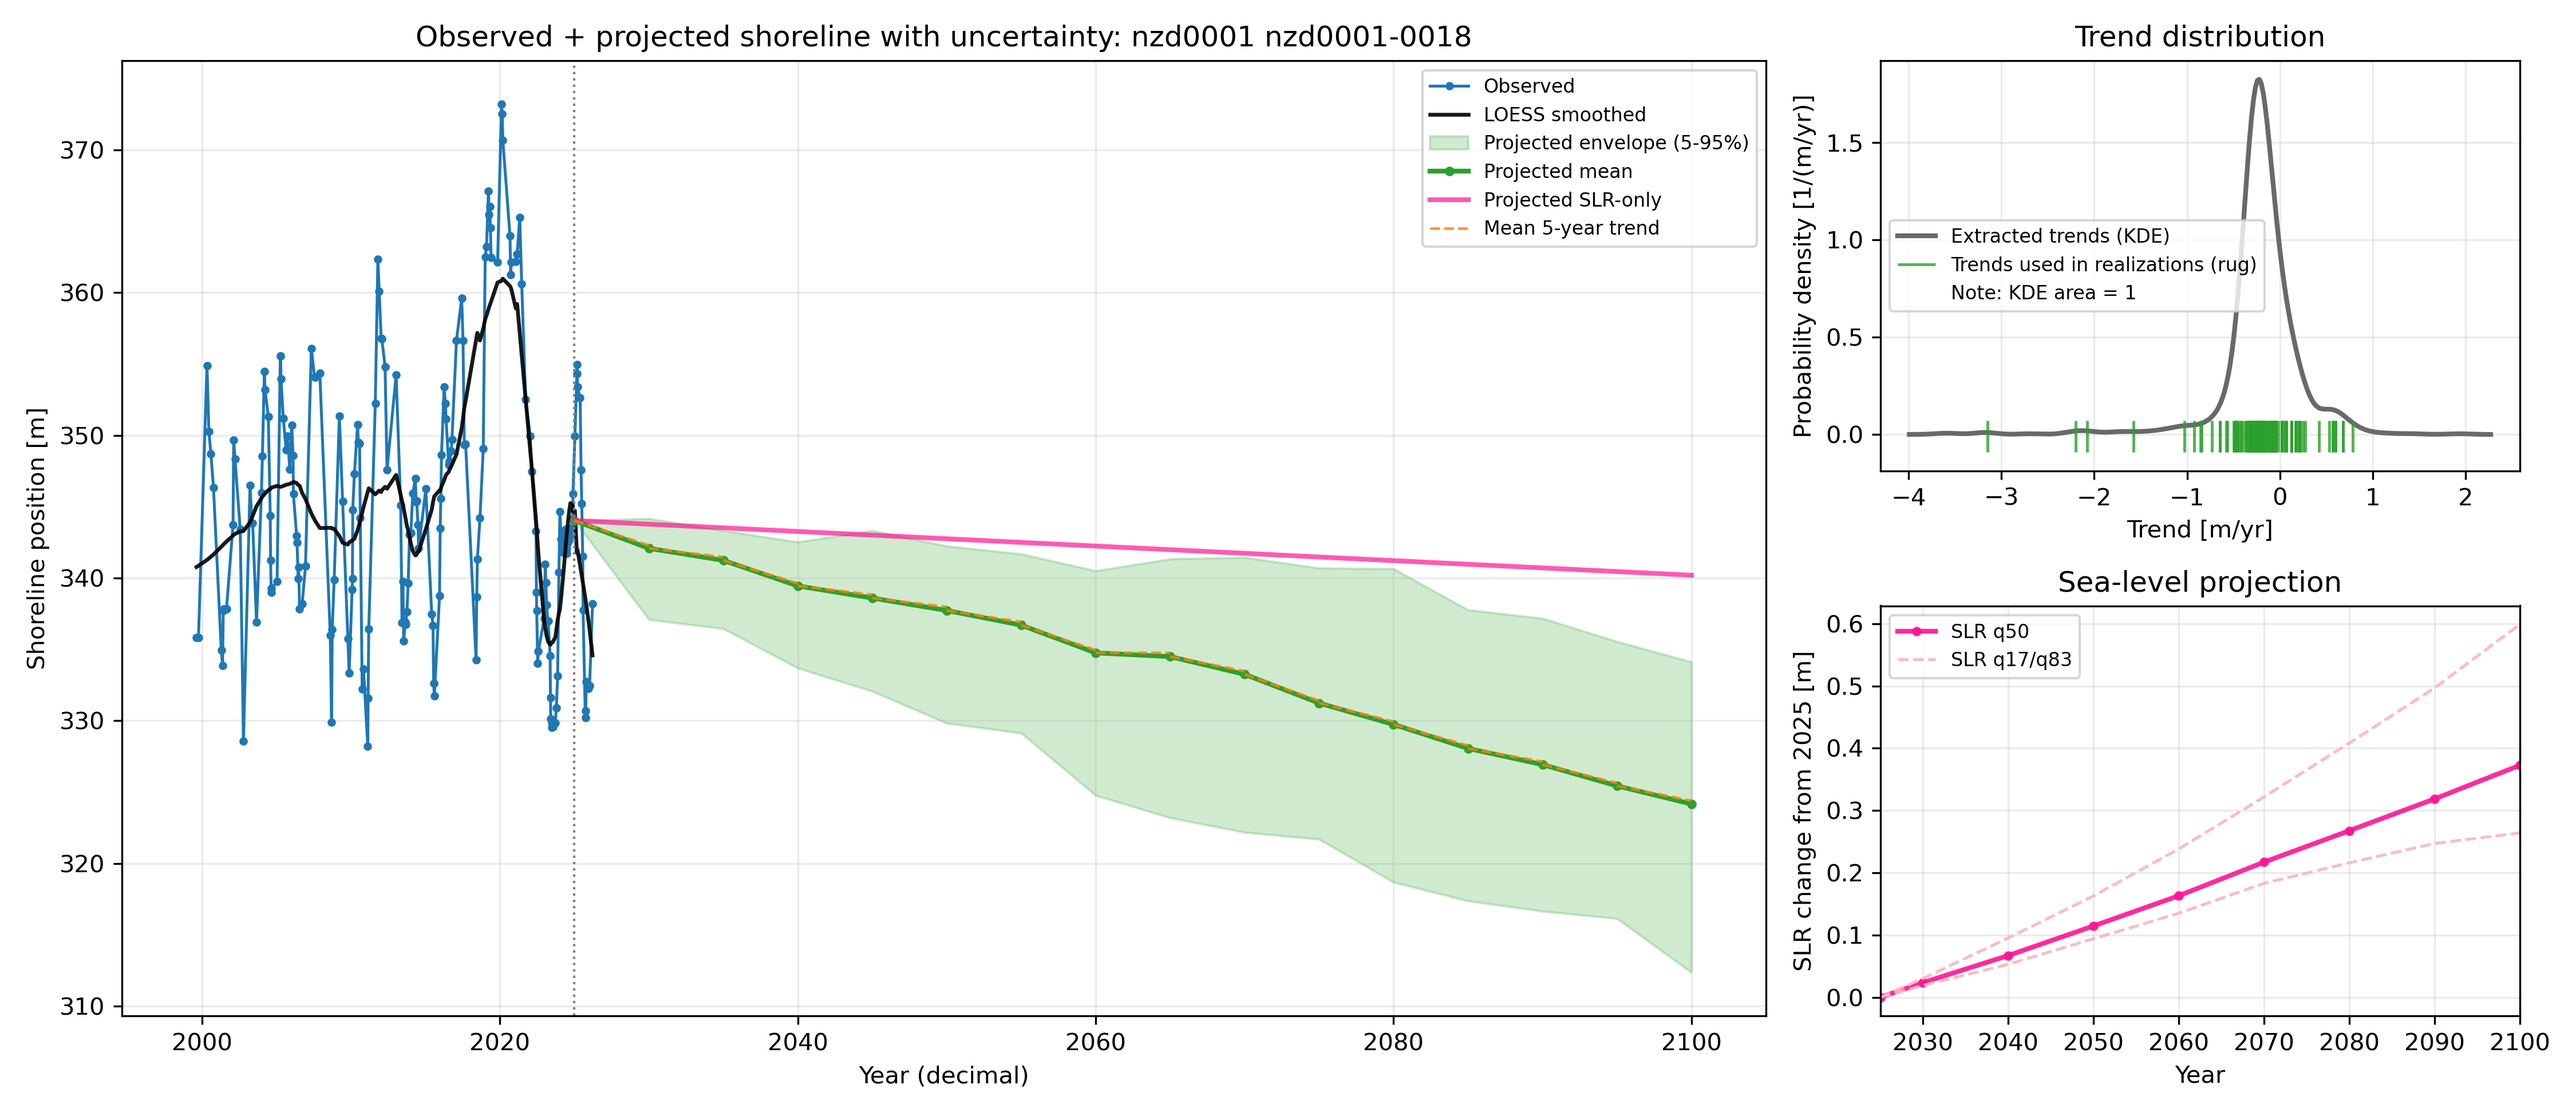
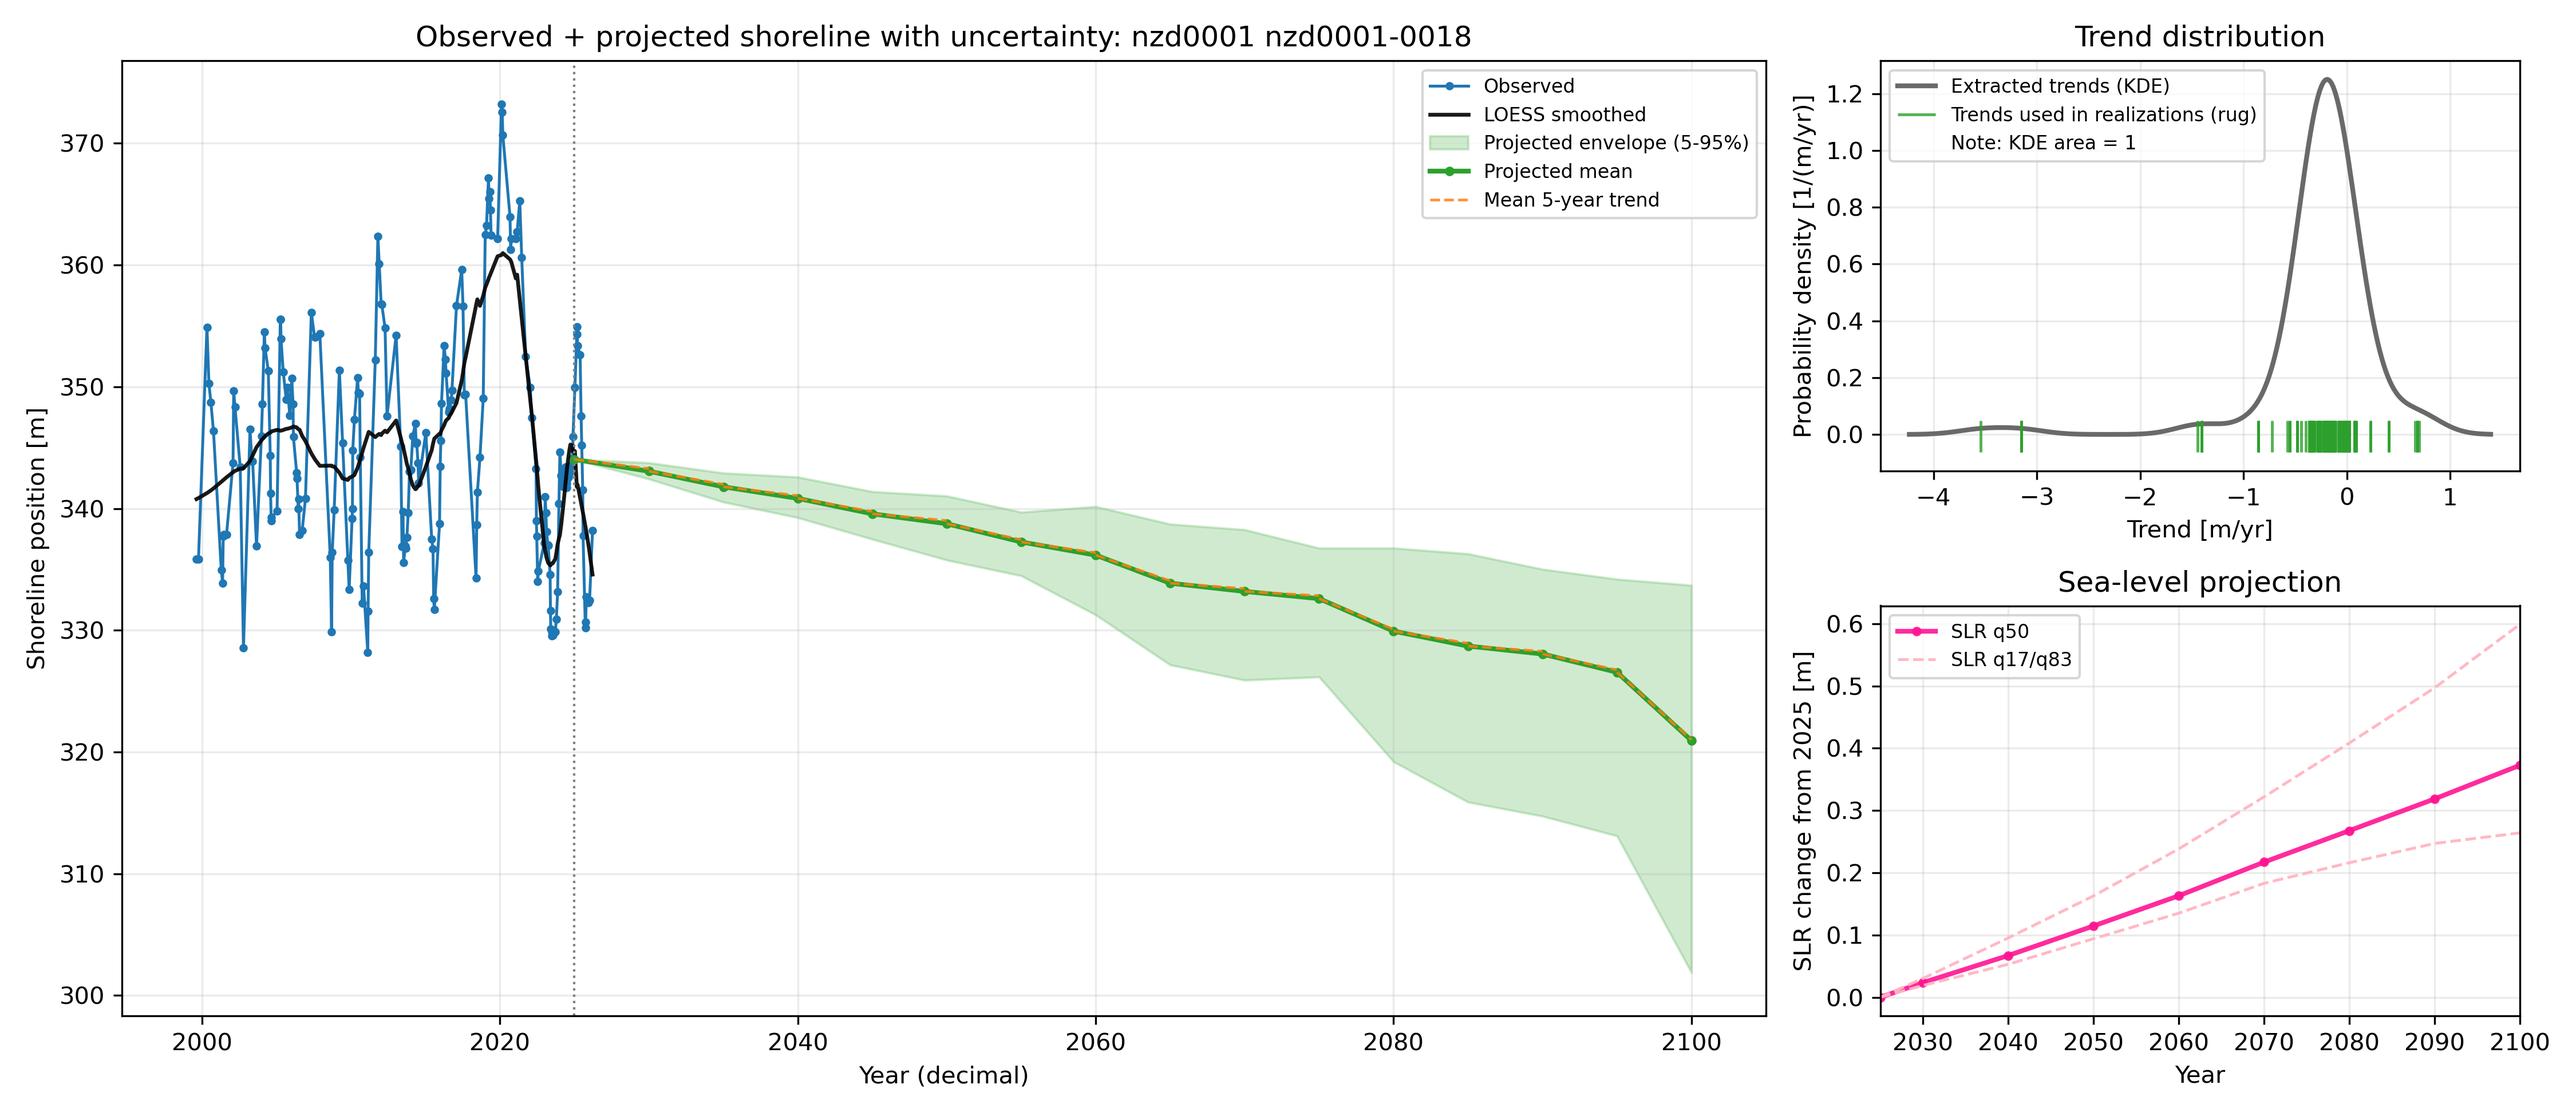
Bugs in trend pool generation
checking for bugs in trend pool generation

diff --git a/trend_uncertainty.py b/trend_uncertainty.py
@@ -159,6 +159,7 @@ def block_bootstrap_slopes(
     block_years,
     n_boot,
     random_state,
+    return_table=False,
 ):
     """
     Block bootstrap for linear trend slopes.
@@ -177,7 +178,10 @@ def block_bootstrap_slopes(
     Returns
     -------
     slopes : array
-        Bootstrapped slope estimates
+        Bootstrapped slope estimates.
+    table : pandas.DataFrame, optional
+        Returned only when return_table=True. Contains four columns:
+        realization, slope_m_per_yr, date_range, window_length_years.
     """
     # Set up random generator
     rng = np.random.default_rng(random_state)
@@ -208,6 +212,8 @@ def block_bootstrap_slopes(
         )
     
     slopes = np.empty(n_boot, dtype=float)
+    date_ranges = []
+    window_lengths_years = []
 
     for i in range(n_boot):
         idx = []
@@ -218,6 +224,21 @@ def block_bootstrap_slopes(
 
         idx = np.asarray(idx[:n])
         slopes[i] = np.polyfit(t[idx], y[idx], 1)[0]
+        t_min = float(np.min(t[idx]))
+        t_max = float(np.max(t[idx]))
+        date_ranges.append(f"{t_min:.2f} to {t_max:.2f}")
+        window_lengths_years.append(t_max - t_min)
+
+    if return_table:
+        table = pd.DataFrame(
+            {
+                "realization": np.arange(1, n_boot + 1, dtype=int),
+                "slope_m_per_yr": slopes,
+                "date_range": date_ranges,
+                "window_length_years": window_lengths_years,
+            }
+        )
+        return slopes, table
 
     return slopes
 
@@ -379,112 +400,6 @@ def mc_shoreline_change(
     return tuple(outputs)
 
 
-# def plot_delta_s_debug_histogram(
-#     sampled_delta_s,
-#     summary,
-#     q17,
-#     q50,
-#     q83,
-#     site_id,
-#     transect_id,
-#     ssp,
-#     scenario,
-#     year,
-#     out_fp,
-# ):
-#     """Save a debug histogram of sampled SLR for one transect."""
-#     sampled_delta_s = np.asarray(sampled_delta_s, dtype=float)
-
-#     fig, ax = plt.subplots(figsize=(8, 4))
-#     ax.hist(sampled_delta_s, bins=50, density=True, alpha=0.55, color="steelblue")
-
-#     mu = float(summary.get("delta_S_mu_m", np.nan))
-#     sigma = float(summary.get("delta_S_sigma_m", np.nan))
-
-#     if np.isfinite(mu) and np.isfinite(sigma) and sigma > 0:
-#         x_low = float(np.quantile(sampled_delta_s, 0.001))
-#         x_high = float(np.quantile(sampled_delta_s, 0.999))
-#         x = np.linspace(x_low, x_high, 400)
-#         pdf = (1.0 / (sigma * np.sqrt(2.0 * np.pi))) * np.exp(-0.5 * ((x - mu) / sigma) ** 2)
-#         ax.plot(x, pdf, color="black", linewidth=2.0, label="Gaussian fit")
-
-#     ax.axvline(q17, color="tab:orange", linestyle="--", linewidth=1.5, label="q17 target")
-#     ax.axvline(q50, color="tab:green", linestyle="--", linewidth=1.5, label="q50 target")
-#     ax.axvline(q83, color="tab:red", linestyle="--", linewidth=1.5, label="q83 target")
-
-#     ax.set_xlabel("Sampled delta_S [m]")
-#     ax.set_ylabel("Density")
-#     ax.set_title(
-#         f"{site_id} {transect_id} delta_S samples ({ssp}-{scenario}, year={year})"
-#     )
-#     ax.legend(loc="best", fontsize=8)
-#     fig.tight_layout()
-#     fig.savefig(out_fp, dpi=180)
-#     plt.close(fig)
-
-
-# def plot_variance_decomposition(
-#     summary,
-#     site_id,
-#     transect_id,
-#     ssp,
-#     scenario,
-#     year,
-#     out_fp,
-# ):
-#     """Save per-transect variance decomposition bars for dy components."""
-#     base_var = float(summary.get("base_var_m2", np.nan))
-#     trend_var = float(summary.get("trend_var_m2", np.nan))
-#     cross_var = float(summary.get("cross_var_m2", np.nan))
-#     total_var = float(summary.get("dy_var_m2", np.nan))
-
-#     labels = ["Base", "Trend", "2*Cov"]
-#     values = np.array([base_var, trend_var, cross_var], dtype=float)
-#     colors = ["#4c78a8", "#f58518", "#54a24b"]
-
-#     fig, ax = plt.subplots(figsize=(8, 4))
-#     ax.bar(labels, values, color=colors, alpha=0.85)
-#     ax.axhline(0.0, color="black", linewidth=1.0)
-
-#     if np.isfinite(total_var):
-#         ax.axhline(
-#             total_var,
-#             color="crimson",
-#             linestyle="--",
-#             linewidth=1.6,
-#             label=f"Total var = {total_var:.2f} m^2",
-#         )
-
-#     pct_vals = [
-#         float(summary.get("base_var_frac_pct", np.nan)),
-#         float(summary.get("trend_var_frac_pct", np.nan)),
-#         float(summary.get("cross_var_frac_pct", np.nan)),
-#     ]
-
-#     finite_abs = np.abs(values[np.isfinite(values)])
-#     scale = float(np.max(finite_abs)) if finite_abs.size else 1.0
-#     if scale == 0.0:
-#         scale = 1.0
-#     y_off = 0.04 * scale
-
-#     for i, (val, pct) in enumerate(zip(values, pct_vals)):
-#         if not np.isfinite(val):
-#             continue
-#         y_text = val + y_off if val >= 0 else val - y_off
-#         va = "bottom" if val >= 0 else "top"
-#         pct_txt = f"{pct:.1f}%" if np.isfinite(pct) else "nan"
-#         ax.text(i, y_text, pct_txt, ha="center", va=va, fontsize=9)
-
-#     ax.set_ylabel("Variance contribution [m^2]")
-#     ax.set_title(
-#         f"{site_id} {transect_id} variance decomposition ({ssp}-{scenario}, year={year})"
-#     )
-#     ax.legend(loc="best", fontsize=8)
-#     fig.tight_layout()
-#     fig.savefig(out_fp, dpi=180)
-#     plt.close(fig)
-
-
 #%%
 
 import pandas as pd
@@ -563,8 +478,8 @@ out_dir = Path("original_plots_ts")
 debug_slr_histograms = True
 debug_variance_plots = True
 
-nzd_sites_trial = nzd_sites[0:5]
-# nzd_sites_trial = ["nzd0003"]
+# nzd_sites_trial = nzd_sites[0:5]
+nzd_sites_trial = ["nzd0001"]
 # nzd_sites_trial = ["nzd0161"]
 
 #Try only 2 sites first
@@ -583,8 +498,11 @@ for site_id in nzd_sites_trial:
         c for c in df.columns
         if c.startswith(site_id + "-")
     ]
-    #transect_trials=transect_cols[16:19] #Try only 3 transects first
-    for transect_id in transect_cols:
+    
+    transect_trials=transect_cols[18:19] #Try only 3 transects first
+
+    for transect_id in transect_trials:
+    # for transect_id in transect_cols:
 
         # Extract shoreline position for this transect
         y = df[transect_id]
@@ -680,14 +598,14 @@ for site_id in nzd_sites_trial:
         #     t_clean, y_clean,
         #     block_years= 3.0,
         #     n_boot=1000,
-        #     random_state=seed
         # )
 
-        boot_slopes = block_bootstrap_slopes(
+        boot_slopes, boot_slopes_table = block_bootstrap_slopes(
             t_smooth, y_smooth,
             block_years= 5.0,
-            n_boot=1000,
-            random_state=seed
+            n_boot=100,  #1000
+            random_state=seed,
+            return_table=True,
         )
 
 
@@ -819,44 +737,6 @@ for site_id in nzd_sites_trial:
         
         dy, summ, sampled_delta_s, sampled_r_all, sampled_slr_dy = mc_result
 
-        # if debug_slr_histograms:
-        #     dy, summ, sampled_delta_s, sampled_r_all = mc_result
-        #     debug_hist_fp = site_dir / f"{site_id}_{transect_id}_deltaS_hist.png"
-        #     plot_delta_s_debug_histogram(
-        #         sampled_delta_s=sampled_delta_s,
-        #         summary=summ,
-        #         q17=delta_s_q17,
-        #         q50=delta_s_q50,
-        #         q83=delta_s_q83,
-        #         site_id=site_id,
-        #         transect_id=transect_id,
-        #         ssp=ssp_target,
-        #         scenario=scenario_target,
-        #         year=target_year,
-        #         out_fp=debug_hist_fp,
-        #     )
-        # else:
-        #     dy, summ = mc_result
-
-        # if debug_variance_plots:
-        #     var_plot_fp = site_dir / f"{site_id}_{transect_id}_variance_decomp.png"
-        #     plot_variance_decomposition(
-        #         summary=summ,
-        #         site_id=site_id,
-        #         transect_id=transect_id,
-        #         ssp=ssp_target,
-        #         scenario=scenario_target,
-        #         year=target_year,
-        #         out_fp=var_plot_fp,
-        #     )
-
-        # print(
-        #     f"{site_id} {transect_id} var_decomp [%] -> "
-        #     f"base={summ['base_var_frac_pct']:.1f}, "
-        #     f"trend={summ['trend_var_frac_pct']:.1f}, "
-        #     f"2cov={summ['cross_var_frac_pct']:.1f}"
-        # )
-
         # Store results
         dy_rows.append({
                 "site_id": site_id,
@@ -878,16 +758,6 @@ for site_id in nzd_sites_trial:
                 "dy_median_m": float(summ["dy_median_m"]),
                 "dy_p95_m": float(summ["dy_p95_m"])
 
-                # "base_var_m2": float(summ["base_var_m2"]),
-                # "trend_var_m2": float(summ["trend_var_m2"]),
-                # "cross_var_m2": float(summ["cross_var_m2"]),
-                # "dy_var_m2": float(summ["dy_var_m2"]),
-                # "base_sd_m": float(summ["base_sd_m"]),
-                # "trend_sd_m": float(summ["trend_sd_m"]),
-                # "dy_sd_m": float(summ["dy_sd_m"]),
-                # "base_var_frac_pct": float(summ["base_var_frac_pct"]),
-                # "trend_var_frac_pct": float(summ["trend_var_frac_pct"]),
-                # "cross_var_frac_pct": float(summ["cross_var_frac_pct"]),
             })
 
         # Pass all sampled realizations so the plot can show mean + uncertainty envelope.

diff --git a/viz.py b/viz.py
@@ -19,9 +19,9 @@ def plot_observed_and_projected_single_run(
     site_id,
     transect_id,
     out_fp,
-    t_loess=None,
-    y_loess=None,
-    trend_pool=None,
+    t_loess,
+    y_loess,
+    trend_pool,
     slr_only_dy_segments=None,
 ):
     """Plot observed shoreline and projected trajectories.
@@ -203,15 +203,15 @@ def plot_observed_and_projected_single_run(
             label="Projected single run",
         )
 
-    if slr_only_matrix is not None:
-        ax.plot(
-            proj_years,
-            slr_only_shoreline_mean,
-            color="deeppink",
-            linewidth=2.0,
-            alpha=0.7,
-            label="Projected SLR-only",
-        )
+    # if slr_only_matrix is not None:
+    #     ax.plot(
+    #         proj_years,
+    #         slr_only_shoreline_mean,
+    #         color="deeppink",
+    #         linewidth=2.0,
+    #         alpha=0.7,
+    #         label="Projected SLR-only",
+    #     )
 
     first_label = True
     for i in range(n_segments):
